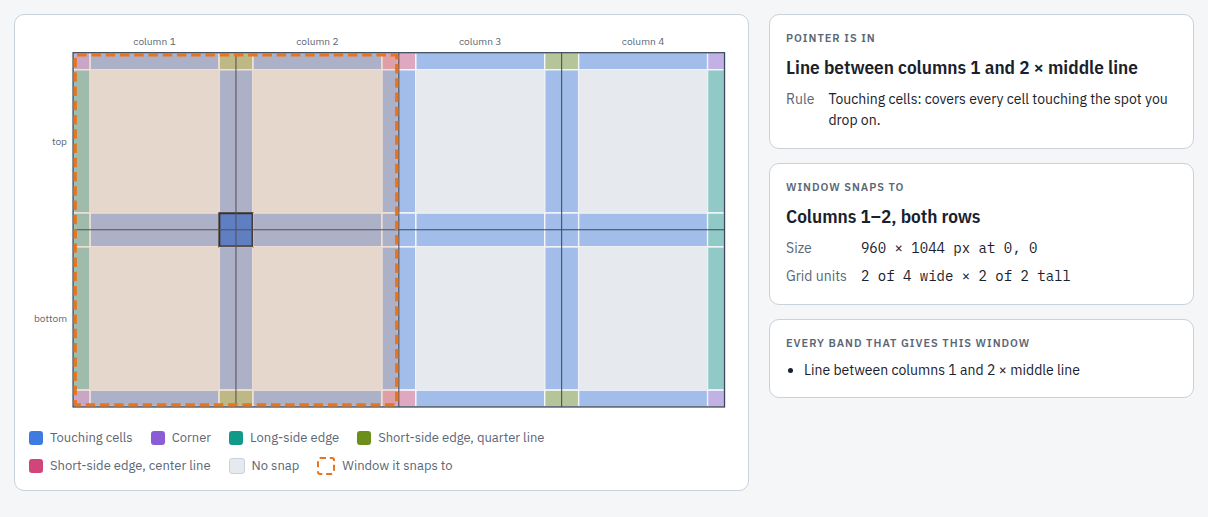
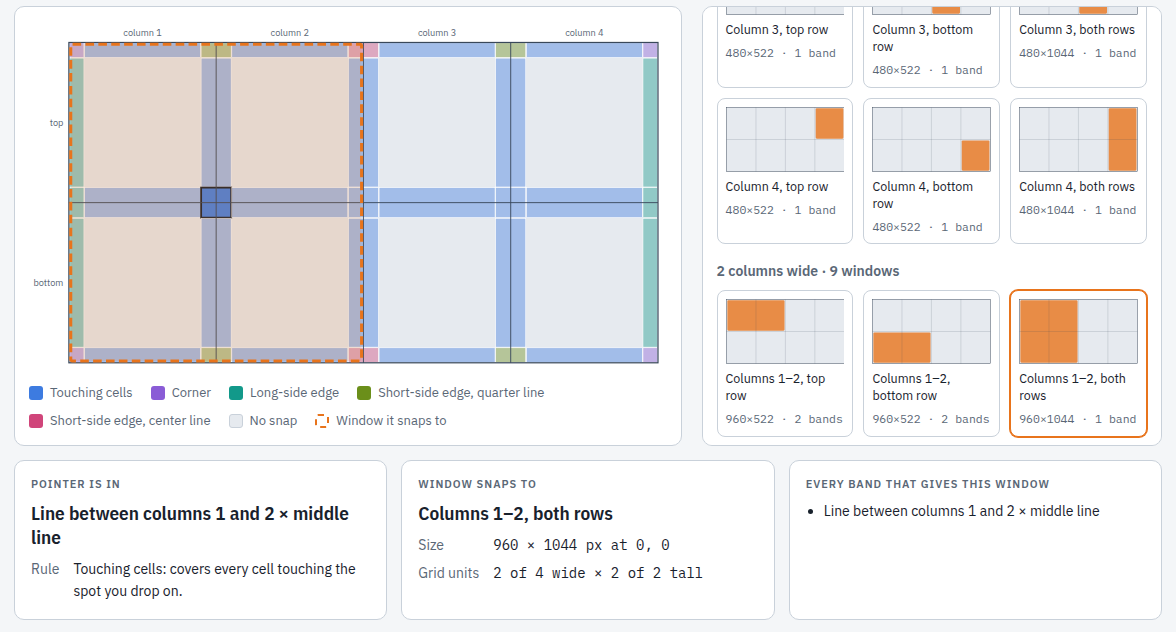
Show the 30-window list beside the drop zone map
The catalogue now scrolls in a panel the same height as the map, so
picking a window shows its bands right next to it, and hovering a band
scrolls the list to its window. The readout cards move below both.

diff --git a/docs/index.html b/docs/index.html
@@ -9,7 +9,7 @@
 <link rel="preconnect" href="https://fonts.googleapis.com">
 <link rel="stylesheet" href="https://fonts.googleapis.com/css2?family=IBM+Plex+Mono:wght@400;500&family=IBM+Plex+Sans:wght@400;500;600&family=IBM+Plex+Sans+Condensed:wght@600&display=swap">
 <style>
-/* Layout: landing page. A full-bleed hero (logo, pitch, animated grid), three feature points, then the live demo badged as interactive, followed by the drop zone map, then the drop zone map (which follows the moved lines), rules, the 30-window catalogue, and how it all behaves. */
+/* Layout: landing page. A full-bleed hero (logo, pitch, animated grid), three feature points, then the live demo badged as interactive, followed by the drop zone map with the 30-window catalogue scrolling beside it (same height) and the readout cards below, then rules and how it all behaves. */
 :root {
   --bg: #f4f6f8;
   --panel: #ffffff;
@@ -121,9 +121,23 @@ table.rules { border-collapse: collapse; width: 100%; font-size: 14px; }
 .rules td .sw { vertical-align: -2px; margin-right: 8px; }
 .rules td.k { white-space: nowrap; font-family: var(--font-mono); font-size: 13px; }
 
+/* Map with the catalogue beside it: the map sets the row height, and the
+   catalogue scrolls within it. Stacks on narrow screens. */
+.map-layout { display: grid; grid-template-columns: minmax(0, 1.45fr) minmax(0, 1fr); gap: 20px; }
+.cat-panel { position: relative; min-width: 0; min-height: 360px; }
+.cat-scroll { position: absolute; inset: 0; overflow-y: auto; overscroll-behavior: contain; background: var(--panel); border: 1px solid var(--line); border-radius: 10px; padding: 14px 14px 18px; display: flex; flex-direction: column; gap: 10px; }
+.cat-scroll:focus-visible { outline: 3px solid var(--result); outline-offset: 2px; }
+.cat-title { margin: 0; font: 600 1.05rem var(--font-display); }
+#catalogue { display: flex; flex-direction: column; gap: 18px; }
+.readout-row { display: grid; grid-template-columns: repeat(3, minmax(0, 1fr)); gap: 14px; }
+@media (max-width: 860px) {
+  .map-layout, .readout-row { grid-template-columns: 1fr; }
+  .cat-panel { min-height: 0; }
+  .cat-scroll { position: static; max-height: 70vh; }
+}
 .cat { display: flex; flex-direction: column; gap: 10px; }
 .cat h3 { margin: 0; font: 600 14px var(--font-body); color: var(--muted); }
-.minis { display: grid; grid-template-columns: repeat(auto-fill, minmax(150px, 1fr)); gap: 10px; }
+.minis { display: grid; grid-template-columns: repeat(auto-fill, minmax(128px, 1fr)); gap: 10px; }
 .mini {
   background: var(--panel); border: 1px solid var(--line); border-radius: 8px; padding: 8px; cursor: pointer;
   display: flex; flex-direction: column; gap: 6px; text-align: left; font: inherit; color: inherit;
@@ -132,7 +146,7 @@ table.rules { border-collapse: collapse; width: 100%; font-size: 14px; }
 .mini svg { width: 100%; height: auto; display: block; }
 .mini .cap { font-size: 12.5px; line-height: 1.35; }
 .mini .px { font-size: 11.5px; color: var(--muted); }
-.minis.portrait { grid-template-columns: repeat(auto-fill, minmax(104px, 1fr)); }
+.minis.portrait { grid-template-columns: repeat(auto-fill, minmax(96px, 1fr)); }
 .notes { margin: 0; padding-left: 20px; display: flex; flex-direction: column; gap: 6px; max-width: 78ch; }
 
 /* ---- Landing ---- */
@@ -334,12 +348,20 @@ html { scroll-behavior: smooth; }
   <section aria-labelledby="map-h">
     <h2 id="map-h">Drop zone map</h2>
     <p>Where you can drop a window with Ctrl held, using this monitor's and workspace's grid as it is now. Move a line above and the bands follow. Hover or tap a band to see the window it gives.</p>
-    <div class="work">
+    <div class="map-layout">
       <figure class="map-box">
         <svg id="map" role="img" aria-label="Drop zone map of one screen. Bands along each grid line and screen edge are drop zones; the open middle of each cell is free movement."></svg>
         <figcaption class="legend" id="legend"></figcaption>
       </figure>
-      <aside class="readout" aria-live="polite">
+      <div class="cat-panel">
+        <div class="cat-scroll" id="cat-scroll" role="region" aria-labelledby="all-h" tabindex="0">
+          <h3 id="all-h" class="cat-title">All 30 windows the grid allows</h3>
+          <p id="all-intro" class="hint"></p>
+          <div id="catalogue"></div>
+        </div>
+      </div>
+    </div>
+    <div class="readout-row" aria-live="polite">
         <div class="card">
           <div class="eyebrow">Pointer is in</div>
           <div id="r-zone" class="result-title"></div>
@@ -357,7 +379,6 @@ html { scroll-behavior: smooth; }
           <div class="eyebrow">Every band that gives this window</div>
           <ul class="zonelist" id="r-others"></ul>
         </div>
-      </aside>
     </div>
   </section>
 
@@ -367,7 +388,7 @@ html { scroll-behavior: smooth; }
       <table class="rules">
         <thead><tr><th>Keys</th><th>Edge on a grid line</th><th>Edge on the screen edge</th></tr></thead>
         <tbody>
-          <tr><td class="k">none</td><td>Resizes only that window, as today. The window leaves the grid and stops following line moves.</td><td>Resizes only that window and it leaves the grid.</td></tr>
+          <tr><td class="k">none</td><td>Resizes only that window, as usual. The window leaves the grid and stops following line moves.</td><td>Resizes only that window and it leaves the grid.</td></tr>
           <tr><td class="k">Ctrl</td><td>Moves the grid line across the whole monitor. Every grid window with an edge on it follows, live. The line stops 200 px from its neighbours and the screen edges.</td><td>Nothing moves.</td></tr>
           <tr><td class="k">Ctrl+Shift</td><td>Same, but the line jumps between the even-eighths positions, so it is easy to put back exactly.</td><td>Nothing moves.</td></tr>
         </tbody>
@@ -388,11 +409,6 @@ html { scroll-behavior: smooth; }
     </div>
   </section>
 
-  <section aria-labelledby="all-h">
-    <h2 id="all-h">All 30 windows the grid allows</h2>
-    <p id="all-intro"></p>
-    <div id="catalogue" style="display:flex;flex-direction:column;gap:22px"></div>
-  </section>
 
   <section aria-labelledby="impl-h">
     <h2 id="impl-h">How it behaves on the desktop</h2>
@@ -1126,7 +1142,10 @@ function drawCatalogue() {
       b.appendChild(px);
       b.addEventListener('click', () => {
         selectKey(b.dataset.key);
-        document.getElementById('map').scrollIntoView({ behavior: matchMedia('(prefers-reduced-motion: reduce)').matches ? 'auto' : 'smooth', block: 'center' });
+        // Side by side the map is already in view; when stacked, bring it up.
+        const m = document.getElementById('map').getBoundingClientRect();
+        if (m.top < 0 || m.bottom > innerHeight)
+          document.getElementById('map').scrollIntoView({ behavior: matchMedia('(prefers-reduced-motion: reduce)').matches ? 'auto' : 'smooth', block: 'nearest' });
       });
       gridEl.appendChild(b);
     }
@@ -1135,7 +1154,20 @@ function drawCatalogue() {
   }
 }
 function selectMini(key) {
-  document.querySelectorAll('.mini').forEach(b => b.setAttribute('aria-pressed', b.dataset.key === key ? 'true' : 'false'));
+  let picked = null;
+  document.querySelectorAll('.mini').forEach(b => {
+    const on = b.dataset.key === key;
+    b.setAttribute('aria-pressed', on ? 'true' : 'false');
+    if (on) picked = b;
+  });
+  // Keep the picked window visible in the catalogue, scrolling only the
+  // catalogue (never the page).
+  const box = document.getElementById('cat-scroll');
+  if (picked && box) {
+    const b = picked.getBoundingClientRect(), c = box.getBoundingClientRect();
+    if (b.top < c.top + 8) box.scrollTop -= c.top + 8 - b.top;
+    else if (b.bottom > c.bottom - 8) box.scrollTop += b.bottom - (c.bottom - 8);
+  }
 }
 
 function render(resetSelection) {

diff --git a/README.md b/README.md
@@ -36,9 +36,10 @@ Letting go of Ctrl before you drop cancels the snap.
 Together these reach all 30 rectangles the grid allows.
 
 ![Drop zone map: colored bands along every grid line and screen edge. The
-pointer is on the crossing of the first column line and the middle line, and
-the dashed outline shows the window covering columns 1–2 in both
-rows.](docs/images/drop-map.png)
+pointer is on the crossing of the first column line and the middle line, the
+dashed outline shows the window covering columns 1–2 in both rows, and the
+list of all 30 windows beside the map has that window
+picked.](docs/images/drop-map.png)
 
 Cinnamon's own edge tiling is turned off while the extension is enabled and
 turned back on when you disable it. Super+arrow keyboard tiling still works.
